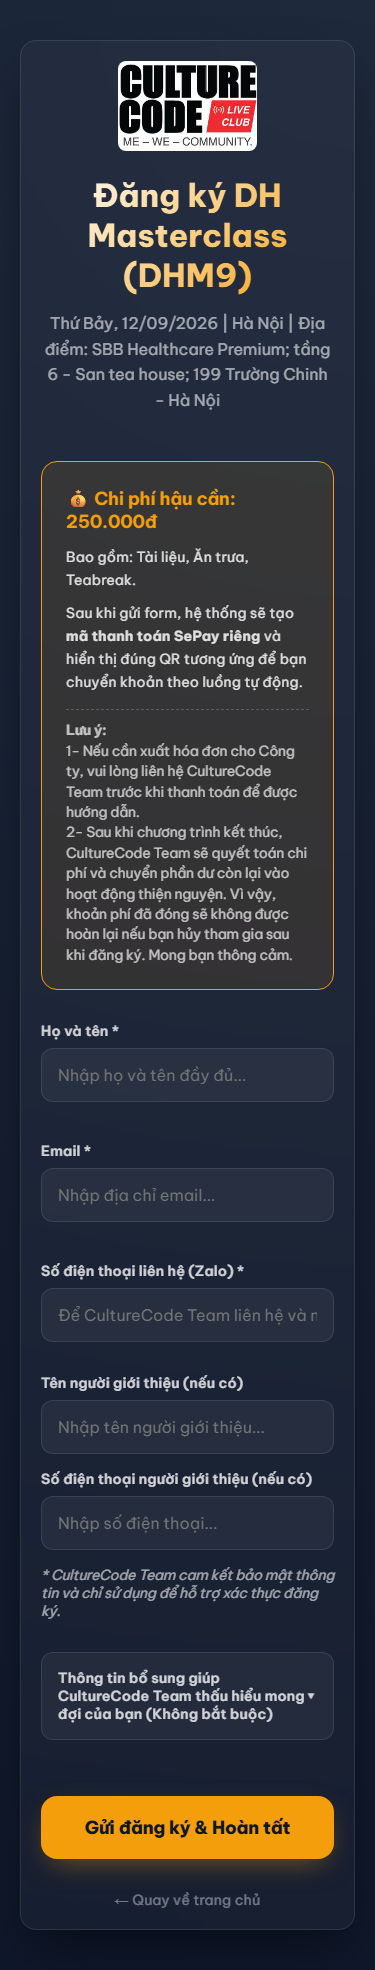
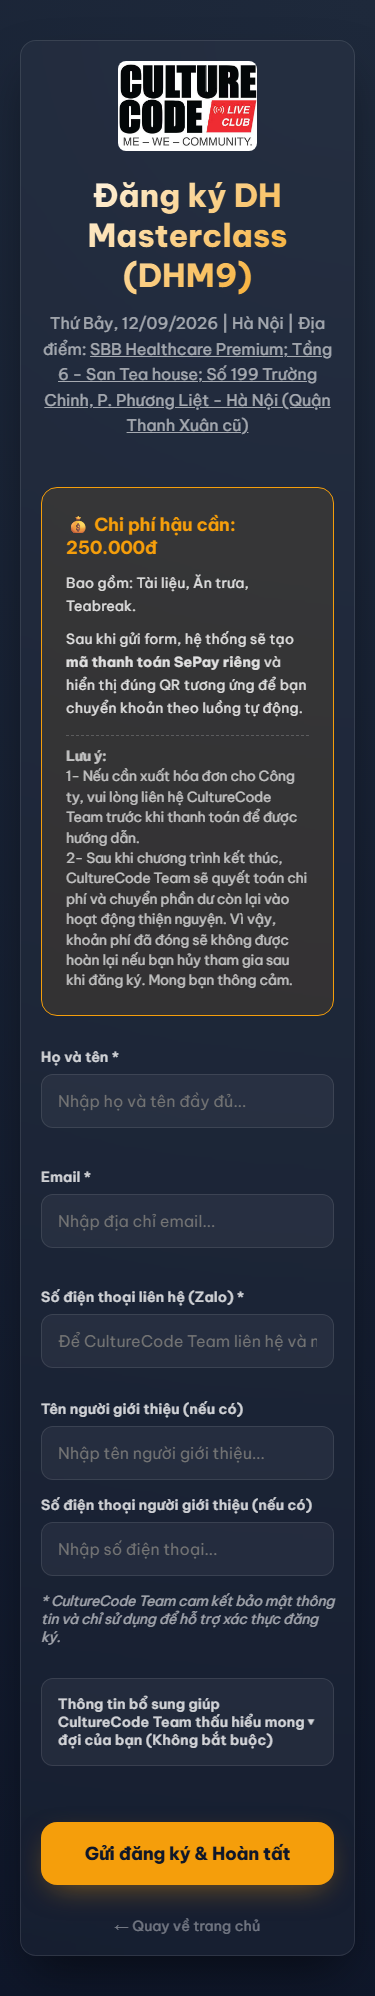
docs(uat): update UAT report and screenshots for address and map refinements

Changed region(s): [[0.1173, 0.2477, 0.88, 0.9599], [0.1173, 0.031, 0.88, 0.2168], [0.352, 0.5264, 0.616, 0.5574]]

diff --git a/UAT/gemini_20260710_DHM9RescheduleLiveUAT.md b/UAT/gemini_20260710_DHM9RescheduleLiveUAT.md
@@ -1,4 +1,4 @@
-# Báo cáo: Kiểm thử nghiệm thu Live (UAT Report) - Dời lịch DHM9 Hà Nội
+# Báo cáo: Kiểm thử nghiệm thu Live (UAT Report) - Dời lịch & Cập nhật Địa chỉ DHM9 HN / DHM8 HCM
 
 **Ngày thực hiện**: 10/07/2026  
 **Người thực hiện**: Gemini (Antigravity Agent)  
@@ -7,12 +7,13 @@
 ---
 
 ## 1. Phạm vi kiểm thử (Scope of Testing)
-Kiểm tra hiển thị của 3 trang web public thuộc chương trình **Delivering Happiness Masterclass 9 (DHM9)** tại Hà Nội sau khi deploy bản cập nhật dời lịch lên Vercel.
-- **Yêu cầu hiển thị mới**:
-  - Ngày tổ chức: `Thứ Bảy, 12/09/2026`
-  - Địa điểm tổ chức: `SBB Healthcare Premium; tầng 6 - San tea house; 199 Trường Chinh - Hà Nội`
-- **Yêu cầu kỹ thuật**:
-  - Giữ nguyên `event_id` cũ: `DHM9_REG_220826_HN` và `DH9_INTEREST_220826_HN` để đảm bảo an toàn cho Apps Script đối soát và Google Sheets.
+Kiểm tra hiển thị của các trang web public thuộc chương trình **Delivering Happiness Masterclass** sau khi cập nhật dời lịch và chuẩn hóa địa giới hành chính chi tiết kèm liên kết bản đồ:
+1. **DHM8 TP.HCM**:
+   - Địa chỉ: `Trung tâm Đào tạo Circle K, Tầng 3 - Số 27 Nguyễn Gia Trí, P.Thạnh Mỹ Tây, Hồ Chí Minh (quận Bình Thạnh cũ)`
+   - Link Google Map: `https://www.google.com/maps/search/?api=1&query=Trung+tâm+Đào+tạo+Circle+K,+27+Nguyễn+Gia+Trí,+Bình+Thạnh`
+2. **DHM9 Hà Nội**:
+   - Địa chỉ: `SBB Healthcare Premium; Tầng 6 - San Tea house; Số 199 Trường Chinh, P. Phương Liệt - Hà Nội (Quận Thanh Xuân cũ)`
+   - Link Google Map: `https://www.google.com/maps/search/?api=1&query=SBB+Healthcare+Premium+199+Trường+Chinh+Hà+Nội`
 
 ---
 
@@ -20,7 +21,9 @@ Kiểm tra hiển thị của 3 trang web public thuộc chương trình **Deliv
 
 ### Case 1: Trang chủ (Homepage)
 - **URL**: https://delivering-happiness.vercel.app/
-- **Kết quả**: Đã hiển thị ngày học mới `12/09/2026` và địa điểm mới `SBB Healthcare Premium...` tại phần thông tin DHM9 Hà Nội.
+- **Kết quả**: 
+  - Cả 2 thẻ sự kiện (event cards) DHM8 và DHM9 đã hiển thị địa chỉ chi tiết theo địa giới hành chính mới.
+  - Các địa chỉ đã được gắn thẻ liên kết `<a>` hướng tới Google Map chính xác, màu sắc tương thích (`color: inherit; text-decoration: underline;`).
 - **Bằng chứng hình ảnh**:
   - **Desktop**:
     ![Trang chủ Desktop](C:/Users/vu.hoang/.gemini/antigravity/scratch/dh4hn-website/UAT/screenshots/dhm9_reschedule_20260710/index_desktop_live.png)
@@ -29,24 +32,36 @@ Kiểm tra hiển thị của 3 trang web public thuộc chương trình **Deliv
 
 ---
 
-### Case 2: Trang đăng ký DHM9 Hà Nội (Registration Page)
-- **URL**: https://delivering-happiness.vercel.app/register_dh9_hanoi.html
+### Case 2: Trang đăng ký DHM8 TP.HCM (Registration HCM)
+- **URL**: https://delivering-happiness.vercel.app/register.html
 - **Kết quả**: 
-  - Đã hiển thị ngày học mới `12/09/2026` và địa điểm mới tại phần tiêu đề (dòng subtitle).
-  - Đã kiểm tra cấu trúc mã nguồn: Input hidden `event_id` được giữ nguyên chính xác là `DHM9_REG_220826_HN`.
+  - Địa chỉ chi tiết và liên kết Google Map của Circle K HCM đã được cập nhật thành công ở phụ đề (subtitle).
 - **Bằng chứng hình ảnh**:
   - **Desktop**:
-    ![Trang đăng ký Desktop](C:/Users/vu.hoang/.gemini/antigravity/scratch/dh4hn-website/UAT/screenshots/dhm9_reschedule_20260710/register_desktop_live.png)
+    ![Trang đăng ký HCM Desktop](C:/Users/vu.hoang/.gemini/antigravity/scratch/dh4hn-website/UAT/screenshots/dhm9_reschedule_20260710/register_hcm_desktop_live.png)
   - **Mobile**:
-    ![Trang đăng ký Mobile](C:/Users/vu.hoang/.gemini/antigravity/scratch/dh4hn-website/UAT/screenshots/dhm9_reschedule_20260710/register_mobile_live.png)
+    ![Trang đăng ký HCM Mobile](C:/Users/vu.hoang/.gemini/antigravity/scratch/dh4hn-website/UAT/screenshots/dhm9_reschedule_20260710/register_hcm_mobile_live.png)
 
 ---
 
-### Case 3: Trang để lại quan tâm DHM9 (Interest Page)
+### Case 3: Trang đăng ký DHM9 Hà Nội (Registration HN)
+- **URL**: https://delivering-happiness.vercel.app/register_dh9_hanoi.html
+- **Kết quả**: 
+  - Địa chỉ chi tiết và liên kết Google Map của SBB HN đã được cập nhật thành công ở phụ đề.
+  - Giữ nguyên `event_id` ẩn là `DHM9_REG_220826_HN`.
+- **Bằng chứng hình ảnh**:
+  - **Desktop**:
+    ![Trang đăng ký HN Desktop](C:/Users/vu.hoang/.gemini/antigravity/scratch/dh4hn-website/UAT/screenshots/dhm9_reschedule_20260710/register_desktop_live.png)
+  - **Mobile**:
+    ![Trang đăng ký HN Mobile](C:/Users/vu.hoang/.gemini/antigravity/scratch/dh4hn-website/UAT/screenshots/dhm9_reschedule_20260710/register_mobile_live.png)
+
+---
+
+### Case 4: Trang để lại quan tâm DHM9 (Interest Page)
 - **URL**: https://delivering-happiness.vercel.app/interest_dh9.html
 - **Kết quả**:
-  - Đã hiển thị ngày học mới `12/09` và địa điểm mới tại đoạn text thông báo.
-  - Đã kiểm tra cấu trúc mã nguồn: Trường `data.event_id` được giữ nguyên chính xác là `DH9_INTEREST_220826_HN`.
+  - Địa chỉ HN mới và liên kết Google Map đã được cập nhật thành công trong phần text thông báo.
+  - Giữ nguyên `data.event_id` là `DH9_INTEREST_220826_HN`.
 - **Bằng chứng hình ảnh**:
   - **Desktop**:
     ![Trang quan tâm Desktop](C:/Users/vu.hoang/.gemini/antigravity/scratch/dh4hn-website/UAT/screenshots/dhm9_reschedule_20260710/interest_desktop_live.png)
@@ -56,5 +71,5 @@ Kiểm tra hiển thị của 3 trang web public thuộc chương trình **Deliv
 ---
 
 ## 3. Kết luận
-- Việc dời lịch hiển thị trên frontend live đã **hoàn tất và được xác minh thành công (VERIFIED)**.
-- Không phát hiện ảnh hưởng ngoài scope đến cấu trúc dữ liệu hay backend.
+- Việc cập nhật địa chỉ theo địa giới mới và gắn liên kết Google Map đã **hoàn tất và được xác minh thành công (VERIFIED)**.
+- Các liên kết hoạt động tốt, layout hiển thị cân đối và chuẩn xác trên cả thiết bị di động và máy tính.
